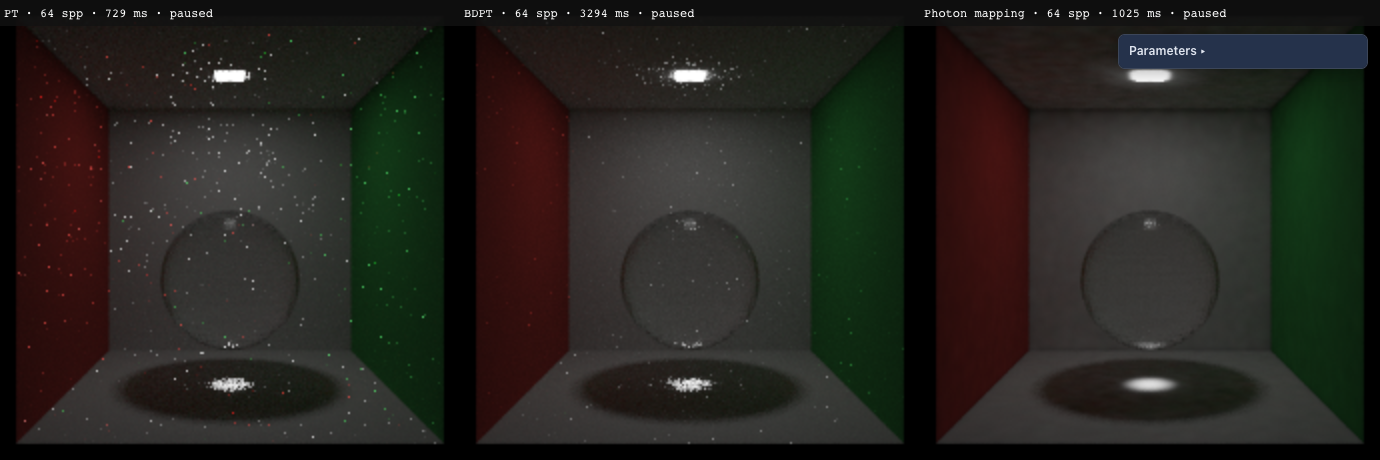
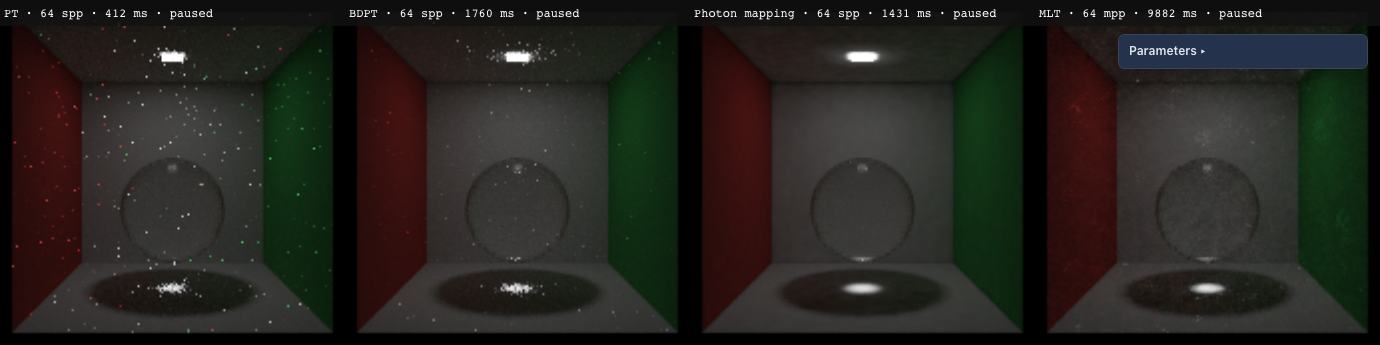
docs: document MLT API and verified glass convergence

diff --git a/scripts/plot-mlt-validation.py b/scripts/plot-mlt-validation.py
@@ -1,0 +1,33 @@
+"""Plot actual MLT validation data; matplotlib is an optional validation tool."""
+import json
+from pathlib import Path
+import matplotlib
+matplotlib.use('Agg')
+import matplotlib.pyplot as plt
+source=Path('build/validation/mlt-web.json')
+records=json.loads(source.read_text())
+output=Path('docs/public/benchmarks')
+output.mkdir(parents=True,exist_ok=True)
+glass=[r for r in records if r['case']=='glass']
+audits=[{'seed':1, 'stats':glass[-1]['stats']}] + [r for r in records if r['case']=='bootstrap-audit']
+reference=glass[-1]['refAll']-glass[-1]['directMean']
+fig,axes=plt.subplots(1,2,figsize=(9.4,3.6),layout='constrained')
+axes[0].loglog([r['mpp'] for r in glass],[r['mse'] for r in glass],'o-',color='#805acb')
+axes[0].set(xlabel='Mutations / pixel',ylabel='ROI linear luminance MSE',title='Glass caustics: PSSMLT convergence')
+axes[0].grid(True,which='both',alpha=.2)
+axes[1].errorbar([r['seed'] for r in audits],[r['stats']['normalization'] for r in audits],yerr=[r['stats']['normalizationSE'] for r in audits],fmt='o',capsize=5,color='#805acb',label='Bootstrap mean ± 1 SE')
+axes[1].axhline(reference,color='#555555',ls='--',label='BDPT minus direct-light audit')
+axes[1].set(xlabel='Independent bootstrap seed',ylabel='Indirect luminance normalization',title='262144 bootstrap samples / seed',xticks=[1,2,3],xlim=(.5,3.5))
+axes[1].grid(True,alpha=.2);axes[1].legend(fontsize=8)
+fig.suptitle('32×32 · 8 bounces · 8192-spp BDPT reference · no denoising',fontsize=11)
+fig.savefig(output/'mlt-validation.png',dpi=160)
+plt.close(fig)
+export=[]
+for record in records:
+    if record['case']=='native-parity':
+        continue
+    if record['case']=='bootstrap-cdf-indices' and any(r['case']==record['case'] for r in export):
+        continue
+    export.append(record)
+(output/'mlt-validation.json').write_text(json.dumps(export,indent=2))
+print(output/'mlt-validation.png')

diff --git a/README.md b/README.md
@@ -375,7 +375,7 @@ Windows 软件验证使用 [微软 WARP 1.0.22](https://www.nuget.org/packages/M
 
 ### 玻璃焦散与积分器对比
 
-新增 `nova_comparison` / 网页第六例子：`IntegratorComparison`（网页 `'integrator-comparison'`）并排显示 PT、BDPT、光子映射，同相机、仅面光源、无显示降噪；固定 spp 或每种方法的活跃时间预算用完后暂停。`comparisonSamples` 默认 64，`comparisonMilliseconds` 默认 0（非零使用时间预算）；通过 `GetComparisonProgress()` / `getComparisonProgress()` 读取各栏采样、毫秒和完成状态。预热不计入预算，每轮每栏 1 个相机样本；最后一轮可能超过时间预算。光子总路径数另计，三栏串行执行。
+新增 `nova_comparison` / 网页第六例子：`IntegratorComparison`（网页 `'integrator-comparison'`）并排显示 PT、BDPT、光子映射、MLT，同相机、仅面光源、无显示降噪；固定 spp 或每种方法的活跃时间预算用完后暂停。`comparisonSamples` 默认 64，`comparisonMilliseconds` 默认 0（非零使用时间预算）；通过 `GetComparisonProgress()` / `getComparisonProgress()` 读取各栏采样、毫秒和完成状态。预热不计入预算，每轮每栏 1 个相机样本；最后一轮可能超过时间预算。光子总路径数另计，四栏串行执行。
 
 `assets/CornellCaustics` 为原创小顶灯、悬空玻璃球和地面焦散场景。C++ 与网页加载同一 GLB，共享 HLSL 粗糙介质 Fresnel、Snell 折射、全反射、BSDF/PDF 与重要性传输。支持 transmission factor 与 IOR；不同材质共用核心 PBR 因子和纹理图集。当前仅空气/玻璃界面，不含嵌套介质、吸收、色散或透射纹理；光栅保留不透明回退。无新增项目依赖。
 
@@ -387,6 +387,24 @@ node scripts/webgpu/check-glass.mjs
 node scripts/webgpu/check-comparison.mjs
 ```
 
-Metal / WebGPU 的玻璃场景 4096 spp 室内平均亮度，PT / BDPT / 光子映射约为 0.011264 / 0.011163 / 0.011125。WebGPU 独立 BSDF 探针检验入射、出射辐亮度能量与全反射；实际三栏像素、预算暂停、非整批 spp、相机重置和模式恢复均有验证。截图和日志位于 `build/validation/comparison-*`、`glass-*`。
+Metal / WebGPU 的玻璃场景 4096 spp 室内平均亮度，PT / BDPT / 光子映射约为 0.011264 / 0.011163 / 0.011125。WebGPU 独立 BSDF 探针检验入射、出射辐亮度能量与全反射；实际对比像素、预算暂停、非整批 spp、相机重置和模式恢复均有验证。截图和日志位于 `build/validation/comparison-*`、`glass-*`。
 
-最终回归：Mac 45 项中 40 项通过、5 项因 MoltenVK 缺少光追跳过；Ubuntu Vulkan Lavapipe 的对比、玻璃、模式、光子映射 4 项通过；Windows DX12 WARP 1.0.22 同样 4 项通过。Windows 首轮 4096 spp 玻璃 BDPT 超过 900 秒，软件后端正确性回归改用 512 spp 后通过；Metal/WebGPU 保留 4096 spp 能量和像素检查。原生实际读回像素确认横向／纵向三栏均非空、暂停图像保持不变；Chrome 静态文档、代码页签与手机上下布局通过。Windows 真机 GPU 尚未验证。
+最终回归：Mac 45 项中 40 项通过、5 项因 MoltenVK 缺少光追跳过；Ubuntu Vulkan Lavapipe 的对比、玻璃、模式、光子映射 4 项通过；Windows DX12 WARP 1.0.22 同样 4 项通过。Windows 首轮 4096 spp 玻璃 BDPT 超过 900 秒，软件后端正确性回归改用 512 spp 后通过；Metal/WebGPU 保留 4096 spp 能量和像素检查。原生实际读回像素确认横向／纵向对比均非空、暂停图像保持不变；Chrome 静态文档、代码页签与手机上下布局通过。Windows 真机 GPU 尚未验证。
+
+### PSSMLT
+
+共享 HLSL 新增 `RayIntegrator::Metropolis` / 网页 `'mlt'`，四栏对比顺序为 PT、BDPT、光子映射、MLT。保留单独直接照明估计；间接 BDPT 主采样向量进行对称大小步变异、Metropolis–Hastings 接受拒绝和加权 splat。bootstrap 用于归一化及链初始化，主向量有 160 个维度、最多 1024 条链，拒绝时完整保留状态；每链预热 16 次。固定点 RGB 通过双 32 位原子加与进位累加，8 个存储绑定和 512 字节参数布局保持不变，无新增依赖。
+
+参数默认值：`mltBootstrapSamples=262144`、`mltLargeStepProbability=0.3`、`mltMutationScale=0.01`、`mltSeed=1`。小步为环绕均匀扰动；`samplesPerFrame` / 累计计数在 MLT 下表示 mutations/pixel。预采样和预热不计入 mpp，但计入四栏首轮活跃时间；首轮可超过时间预算。不是 MMLT，不包含原始路径空间变异策略。
+
+验证涵盖解析目标的归一化、接受拒绝、分批一致性、玻璃焦散收敛、三个种子、混合照明的维度上限和原生/网页能量一致性。32×32、8 次反弹、8192 spp BDPT 参考下，网页区域 MSE 从 32 mpp 的约 `1.23e-5` 降为 2048 mpp 的 `9.51e-7`；区域平均亮度差约 0.18%。当前低预算对比中 MLT 成本更高；固定 bootstrap 的归一化误差不会随 mpp 自动消失。
+
+```sh
+./build/nova_comparison assets/CornellCaustics/CornellCaustics.glb --api metal
+ctest --test-dir build -R mlt -V
+node scripts/webgpu/check-mlt.mjs
+```
+
+公开参数和使用方法见 `docs/api/render-mode.md`，实际四栏截图与说明见 `docs/guide/integrator-comparison.md`。
+
+最终 MLT 回归：Mac 46 项中 41 项通过、5 项因 MoltenVK 缺少光追而跳过；Ubuntu 的相关 4 项及修复后 MLT 复验通过；Windows WARP 1.0.22 的 MLT 与四栏测试通过，原模式和 BDPT 回归也通过。补充 GPU bootstrap CDF 索引边界检查，修复链初始化误读材质缓冲区及模式专属 scratch 的潜在越界。Chrome 解析目标、三种子、分批一致性、玻璃收敛、原生/网页能量一致性与四栏像素检查通过。安装后的独立竖向窗口调用、无 UI 构建和静态文档通过；Windows 真机 GPU 尚未验证。

diff --git a/docs/api/render-mode.md b/docs/api/render-mode.md
@@ -1,6 +1,6 @@
 # 渲染模式
 
-原生 `Window`、`Renderer` 和网页 Renderer 提供对应接口。默认使用光栅；加载模型后，在 **Renderer → Mode** 选择 Raster（光栅）、Ray tracing（光追）或 Integrator comparison（三栏对比）；光追模式内再通过 **Integrator** 选择 PT、BDPT 或光子映射。
+原生 `Window`、`Renderer` 和网页 Renderer 提供对应接口。默认使用光栅；加载模型后，在 **Renderer → Mode** 选择 Raster（光栅）、Ray tracing（光追）或 Integrator comparison（四栏对比）；光追模式内再通过 **Integrator** 选择 PT、BDPT、光子映射或 MLT。
 
 ```cpp
 render::Window window;
@@ -180,8 +180,40 @@ renderer.setRenderMode('integrator-comparison')
 const progress = renderer.getComparisonProgress()
 ```
 
-固定采样预算范围 `1–65536`；时间预算 `0–60000` 毫秒，非零时优先使用时间预算。每栏每轮 1 个相机样本，预热不计入预算；暂停后保留结果。时间包含各方法的 CPU 提交与 GPU 完成，原生还包括现有回读流程，不计等待其他栏的时间；最后一轮可能超过时间预算，三栏串行执行，所以不是整个页面的墙钟预算。两端的绝对耗时不适合直接比较。
+固定采样预算范围 `1–65536`；时间预算 `0–60000` 毫秒，非零时优先使用时间预算。每栏每轮 1 spp；MLT 为 1 mutation/pixel，预热不计入预算；暂停后保留结果。时间包含各方法的 CPU 提交与 GPU 完成，原生还包括现有回读流程，不计等待其他栏的时间；最后一轮可能超过时间预算，四栏串行执行，所以不是整个页面的墙钟预算。两端的绝对耗时不适合直接比较。
 
-返回三项 `ComparisonProgress`，顺序 PT、BDPT、光子映射，各含 `integrator`、`samples`、`milliseconds`、`complete`。相机、模型、尺寸、预算或有效采样参数变化会重跑，`ResetAccumulation()` / `resetAccumulation()` 也会重跑。切回普通光追会继续使用原有场景配置。
+返回四项 `ComparisonProgress`，顺序 PT、BDPT、光子映射、MLT，各含 `integrator`、`samples`、`milliseconds`、`complete`。相机、模型、尺寸、预算或有效采样参数变化会重跑，`ResetAccumulation()` / `resetAccumulation()` 也会重跑。切回普通光追会继续使用原有场景配置。
 
 对比模式固定正方形视图，宽窗口横排、竖窗口上下排列，强制关闭外部光照、天空背景和显示降噪，PT 启用 MIS。每轮光子预算仍独立计数：光子发射路径总数 = 光子映射相机 spp × `photonsPerIteration`。使用带发光面的场景；无发光面的模型在此模式下可能全黑。专用[积分器例子](../examples/integrators)提供玻璃焦散场景。
+
+## 梅特波利斯光传输（MLT）
+
+```cpp
+auto settings = window.GetRayTracing();
+settings.integrator = render::RayIntegrator::Metropolis;
+settings.maxBounces = 8;
+settings.mltBootstrapSamples = 262144;
+settings.mltLargeStepProbability = 0.3f;
+settings.mltMutationScale = 0.01f;
+settings.mltSeed = 1;
+window.SetRayTracing(settings);
+window.SetRenderMode(render::RenderMode::RayTracing);
+```
+
+```js
+renderer.setRayTracing({ ...renderer.getRayTracing(), integrator: 'mlt',
+  maxBounces: 8, mltBootstrapSamples: 262144,
+  mltLargeStepProbability: 0.3, mltMutationScale: 0.01, mltSeed: 1 })
+renderer.setRenderMode('ray-tracing')
+```
+
+- `mltBootstrapSamples`：归一化预采样数，默认 `262144`，范围 `256–1048576`。
+- `mltLargeStepProbability`：全维均匀大步概率，默认 `0.3`，范围 `0.05–1`。
+- `mltMutationScale`：对称环绕均匀小步的最大幅度，默认 `0.01`，范围 `0.0001–0.25`。
+- `mltSeed`：随机种子，默认 `1`，范围为无符号 32 位整数；更换后重新初始化。
+
+当前实现是 **PSSMLT**：在 BDPT 的主采样空间中做 Metropolis–Hastings 变异；直接照明单独估计，链追踪两次及以上散射。bootstrap 估计间接贡献的平均亮度，再按亮度重采样初始化最多 1024 条链，每链预热 16 次。接受／拒绝均做加权 splat，拒绝时保留完整主采样向量。不是 MMLT，也没有原始路径空间的专门变异策略，背景见 [PBRT MLT](https://pbr-book.org/3ed-2018/Light_Transport_III_Bidirectional_Methods/Metropolis_Light_Transport)。
+
+`GetAccumulatedSamples()` / `getAccumulatedSamples()` 在 MLT 下返回平均 mutations/pixel；`samplesPerFrame` 控制每帧的这一预算。它不是独立相机 spp。四栏的 `samples` 字段采用各自单位；MLT 的预采样与预热不计入 mpp，但包含在首轮计时内。首轮可能超过时间预算。
+
+MLT 有相关噪声和初始化开销；固定 bootstrap 的归一化误差不会随 mpp 增长自动消失，应提高预采样数或更换种子复核亮度。面板可调前三项，种子通过 API 设置。所有参数、相机与场景变化会重新初始化；原有显示降噪仍可使用，对比模式固定关闭。共享 HLSL 使用双 32 位整数实现固定点累加与进位，不依赖浏览器浮点原子操作；仍为 8 个存储绑定，无新增依赖。

diff --git a/docs/guide/integrator-comparison.md b/docs/guide/integrator-comparison.md
@@ -9,7 +9,7 @@
 
 ## 在线试验
 
-优先打开[专用积分器对比例子](/examples/integrators)，可按固定时间或采样预算自动暂停。它默认使用玻璃焦散场景，三栏相机和照明条件一致。
+优先打开[专用积分器对比例子](/examples/integrators)，可按固定时间或采样预算自动暂停。它默认使用玻璃焦散场景，四栏相机和照明条件一致。
 
 也可打开[天空盒与环境光例子](/examples/environment)，选择模型和 **Ray tracing → Integrator**。相机设置为 yaw=0、pitch=0、distance=3.6；关闭方向光、环境照明、天空背景与降噪。基础、间接光、金属球场景的截图曝光分别为 3、12、16，同一行的各积分器曝光一致。
 
@@ -33,8 +33,20 @@
 
 ## 玻璃焦散
 
-下图来自专用对比模式，三栏均为 64 spp、8 次反弹、曝光 3，光子映射每轮 8192 条光子路径、初始半径 0.1。中央地面的聚光区域可观察到亮点噪声、连接采样与密度估计的区别；相同 spp 的成本不同，图中耗时只是这次截图的记录。
+下图来自专用对比模式，前三栏为 64 spp，MLT 为 64 mutations/pixel；均为 8 次反弹、曝光 3，光子映射每轮 8192 条光子路径、初始半径 0.1。中央地面的聚光区域可观察到亮点噪声、连接采样与密度估计的区别；相同 spp 的成本不同，MLT 使用 262144 次 bootstrap、0.3 大步概率与 0.01 小步幅度。图中耗时只是这次截图的记录，包含 MLT 首轮初始化。
 
-![玻璃焦散三栏实际渲染](/benchmarks/glass-comparison.png)
+![玻璃焦散四栏实际渲染](/benchmarks/glass-comparison.png)
 
 玻璃采用粗糙介质表面模型，不包含吸收、色散和嵌套介质。光子映射更平滑也有有限半径偏差；需要更严格测量时，应使用更高采样参考图，并报告接收区域误差与实际时间。
+
+## MLT 验证
+
+当前 PSSMLT 使用 BDPT 作为间接路径估计器，先单独估计直接照明。解析目标测试检查接受／拒绝、亮度守恒、分批一致性与收敛；玻璃测试用三个独立种子核对归一化，并检查原生与网页能量一致性。
+
+Chrome WebGPU：32×32、8 次反弹，以 8192 spp BDPT 为参考，区域线性亮度 MSE 从 MLT 32 mpp 的 `1.23e-5` 降到 2048 mpp 的 `9.51e-7`，约降低 92%；区域平均亮度差约 0.18%。默认种子的 bootstrap 归一化估计为 `0.004118 ± 0.000183`（标准误差）。bootstrap 有独立的采样误差；本次标准误差约为估计值的 4.4%，应结合多种子检查亮度。
+
+![MLT 收敛与三个独立 bootstrap 种子的误差检查](/benchmarks/mlt-validation.png)
+
+这证明本场景中随预算增加可以收敛，不证明 MLT 更快。当前实现需要完整 BDPT 求值、主采样向量维护和全局累加，在这组低预算对比中比 BDPT、光子映射更慢，也可能出现相关噪声。bootstrap 数量影响最终亮度稳定性，mpp 增长主要降低链采样噪声；比较时应同时报告初始化成本、时间和误差。
+
+复现：`ctest --test-dir build -R mlt -V`、`node scripts/webgpu/check-mlt.mjs`。[测量数据](/benchmarks/mlt-validation.json)包含归一化、接受率与误差，完整日志位于 `build/validation/mlt-*`。

diff --git a/docs/examples/integrators.md b/docs/examples/integrators.md
@@ -1,7 +1,7 @@
 # 积分器对比
 
-PT、BDPT 与光子映射使用同一相机并排渲染。默认使用玻璃焦散场景，关闭环境与方向光、降噪；每种方法达到预算后暂停。
+PT、BDPT、光子映射与 MLT使用同一相机并排渲染。默认使用玻璃焦散场景，关闭环境与方向光、降噪；每种方法达到预算后暂停。
 
-在面板选择固定采样数或固定时间，再用“重置累计”重跑。顶部显示各自 spp 与实测耗时；相同 spp 不代表相同工作量，光子映射另有每轮光子预算。拖动相机会重新开始。窄屏自动改为上下排列，参数面板自动收起。时间按各方法的活跃渲染时间累计，不含等待其他栏的时间。
+在面板选择固定采样数或固定时间，再用“重置累计”重跑。顶部显示各自 spp（MLT 为 mutations/pixel）与实测耗时；相同 spp 不代表相同工作量，光子映射另有每轮光子预算，MLT 还有 bootstrap 与链初始化开销。拖动相机会重新开始。窄屏自动改为上下排列，参数面板自动收起。时间按各方法的活跃渲染时间累计，不含等待其他栏的时间。
 
 <ClientOnly><ModelPlayground comparison /></ClientOnly>

diff --git a/docs/api/ui.md b/docs/api/ui.md
@@ -82,4 +82,4 @@ renderer.enableParameterPanel({
 
 第五个例子的 Animation 分组提供片段选择、Playing、Loop、Speed 和 Time，接口见[骨骼动画](./animation)。
 
-专用 `Integrator comparison` 模式提供固定采样数／每种方法活跃时间预算，到达预算自动暂停；顶部显示 PT、BDPT、光子映射各自的 spp 与耗时。它固定关闭外部光照和降噪，面板仅保留有效参数，见[第六例子](../examples/integrators)。
+专用 `Integrator comparison` 模式提供固定采样数／每种方法活跃时间预算，到达预算自动暂停；顶部显示 PT、BDPT、光子映射、MLT 各自的 spp 与耗时。它固定关闭外部光照和降噪，面板仅保留有效参数，见[第六例子](../examples/integrators)。
